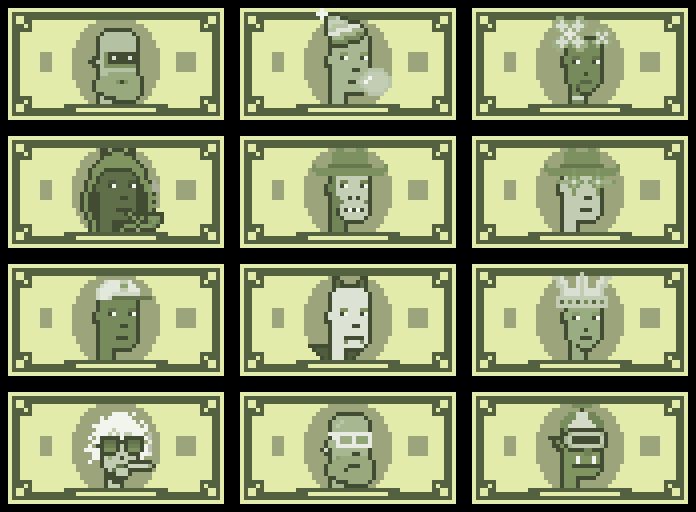
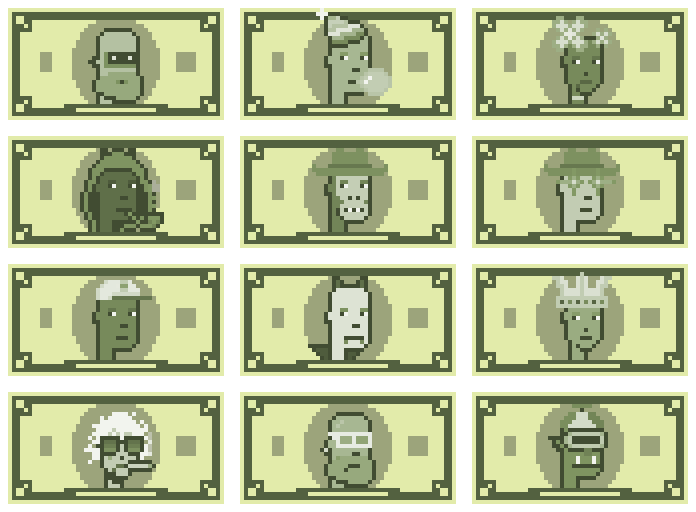
up

Changed region(s): [[0.0, 0.0, 1.0, 1.0]]

diff --git a/dollar/dollar.rb b/dollar/dollar.rb
@@ -87,7 +87,7 @@ end
 
 composite = ImageComposite.new( 3, 4, width:  DOLLAR_FRAME.width+4,
                                       height: DOLLAR_FRAME.height+4,
-                                      background: '#000000' )
+                                      background: '#ffffff' )
 
 
 ids = (0..11)
